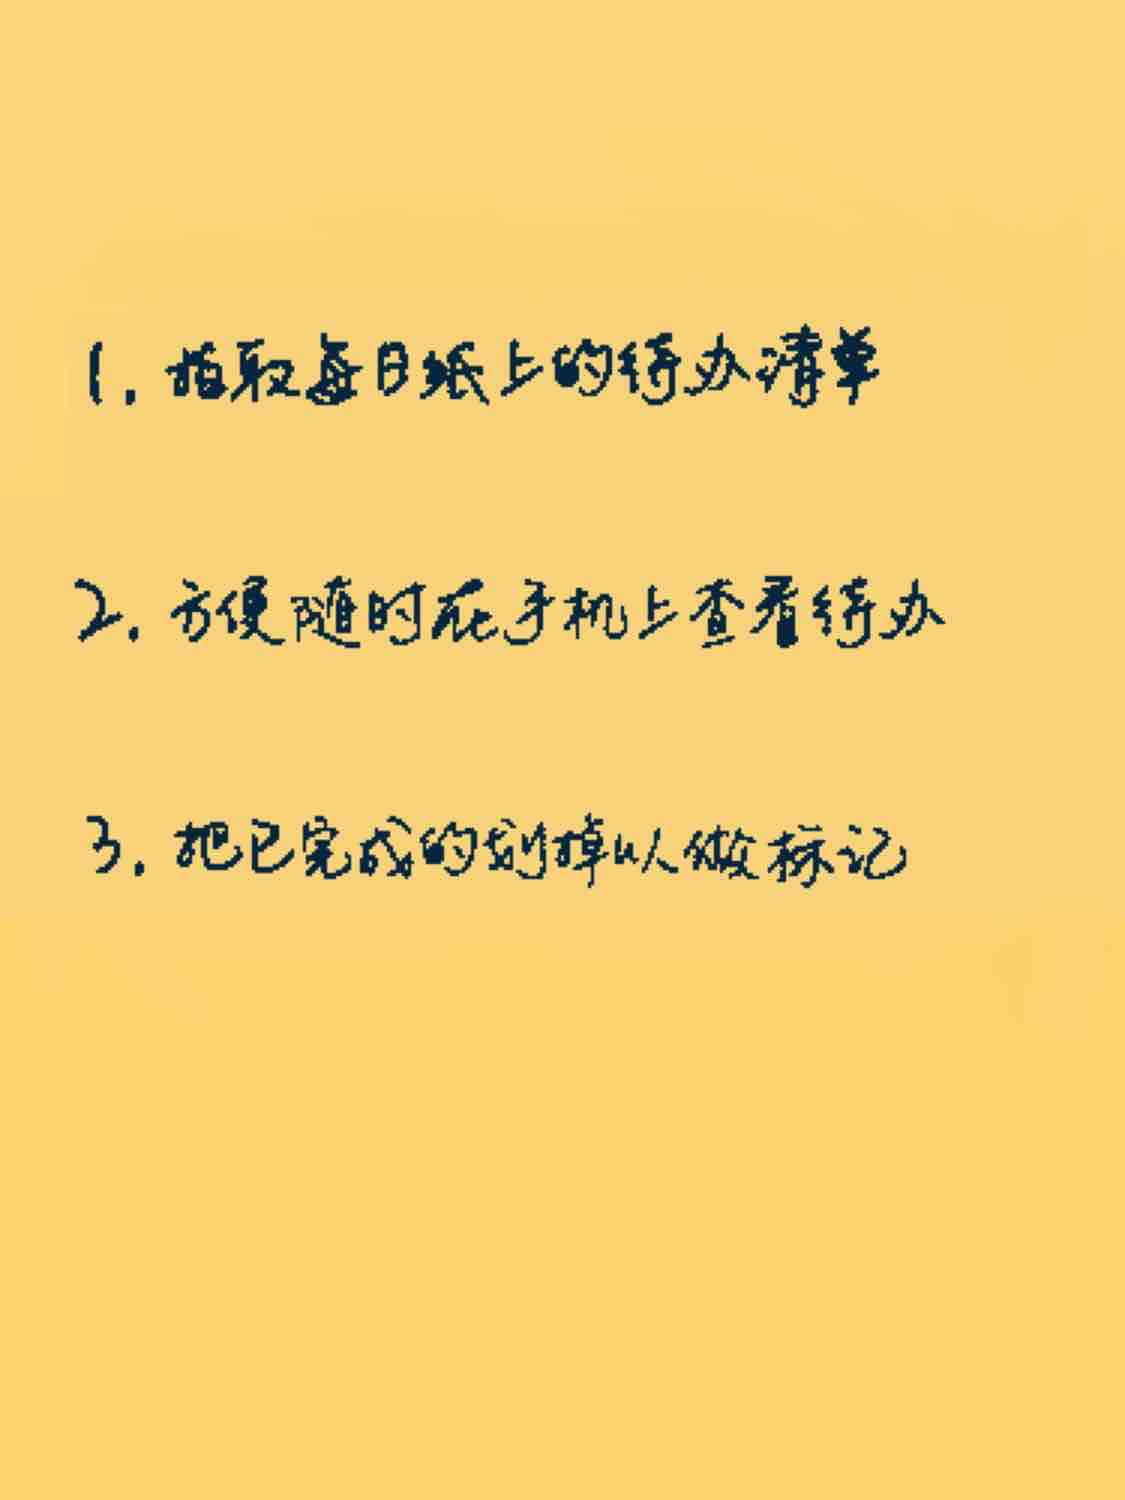
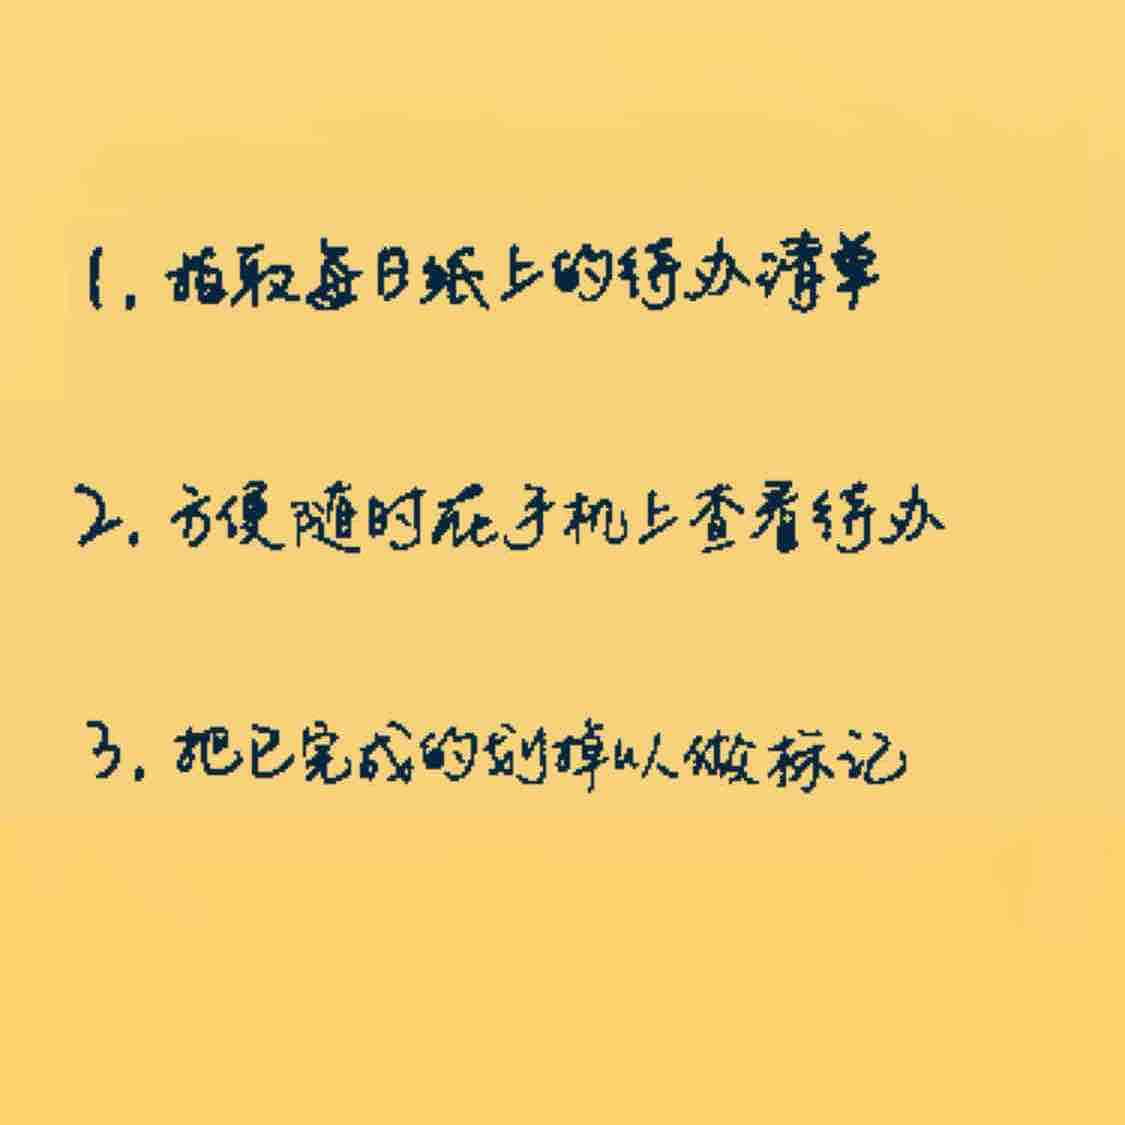
debug default list image

diff --git a/miniprogram/pages/pen/draw.js b/miniprogram/pages/pen/draw.js
@@ -54,7 +54,7 @@ Page({
   initCanvasRect(systemInfo) {
     this.canvasWidth = systemInfo.windowWidth
     this.setData({
-      canvasHeight: systemInfo.windowHeight - 100
+      canvasHeight: systemInfo.windowWidth
     })
     this.maxHeight = systemInfo.windowHeight - 100
   },
@@ -160,6 +160,7 @@ Page({
         if (height > that.maxHeight) {
           height = that.maxHeight;
         }
+        console.log('set height to:', height)
         that.setData({
           todoListImage: newImage,
           canvasHeight: height,
